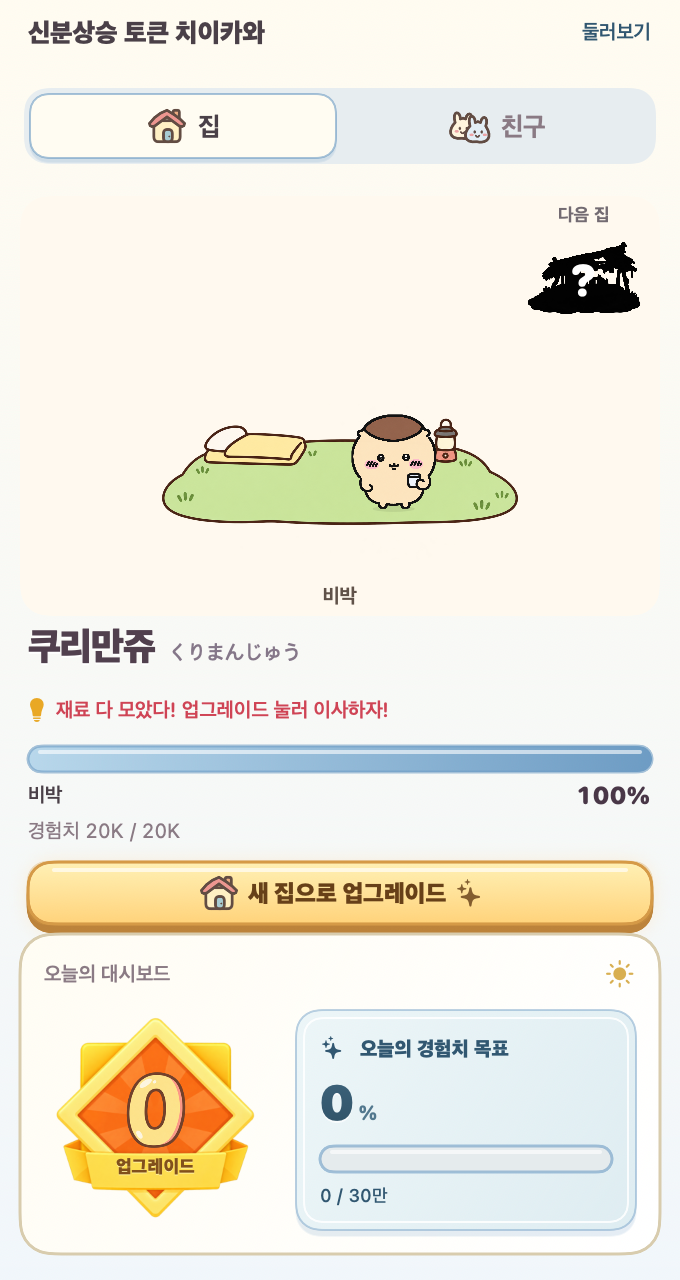
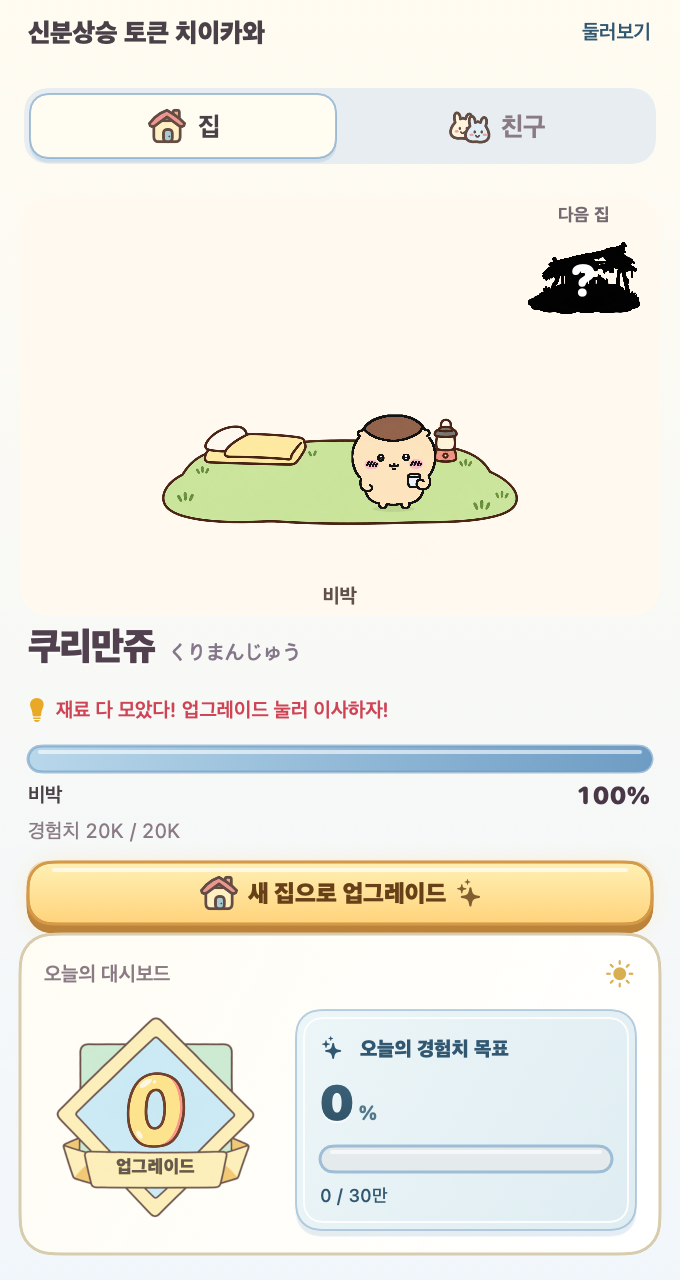
Soften upgrade badge with pastel colors and hand-drawn outlines

Changed region(s): [[0.0926, 0.7812, 0.3706, 0.9688]]

diff --git a/Sources/ChiiBar/UpgradeBadge.swift b/Sources/ChiiBar/UpgradeBadge.swift
@@ -1,13 +1,13 @@
 import AppKit
 import SwiftUI
 
-/// A gold reward medal, with illustrated counts and a readable ribbon label.
+/// A hand-drawn pastel reward badge, with illustrated counts and a readable ribbon label.
 struct UpgradeBadge: View {
     let count: Int
     private static let artwork: NSImage? = {
         let root = ProcessInfo.processInfo.environment["CHIIBAR_NUMBERS"].map { URL(fileURLWithPath: $0) }
             ?? (Bundle.main.resourceURL ?? Bundle.main.bundleURL).appendingPathComponent("StampNumbers")
-        return NSImage(contentsOf: root.appendingPathComponent("badge-gold.png"))
+        return NSImage(contentsOf: root.appendingPathComponent("badge-pastel.png"))
     }()
 
     var body: some View {
@@ -24,7 +24,7 @@ struct UpgradeBadge: View {
             Text("업그레이드")
                 .font(.custom("AppleSDGothicNeo-Heavy", size: 9))
                 .tracking(0.15)
-                .foregroundStyle(Ink.rgb(0x81501B))
+                .foregroundStyle(Ink.rgb(0x66594E))
                 .shadow(color: Ink.rgb(0xFFF2A0), radius: 0, y: 0.5)
                 .offset(y: 24)
         }

diff --git a/Art/StampNumbers/README.md b/Art/StampNumbers/README.md
@@ -12,3 +12,7 @@ Production numeral PNGs for the daily upgrade stamp, created with the built-in i
 ## 금빛 업그레이드 배지 (0.4.12)
 
 `badge-gold.png`는 사용자가 제공한 금빛 다이아몬드·리본 배지를 참고해 내장 이미지 생성 도구로 새로 제작한 투명 배경 이미지입니다. 중앙 숫자는 기존 개별 숫자 이미지를 겹치고 리본의 ‘업그레이드’는 앱에서 표시합니다. 원본은 수정하지 않고 보관합니다. 제작 요청은 `badge-prompt.txt`에 기록했습니다.
+
+## 손그림 파스텔 배지 (0.4.13)
+
+`badge-pastel.png`는 사용자가 제공한 치이카와 그림의 선과 명도·배색을 참고해 내장 이미지 생성 도구로 제작한 배지입니다. 강한 금속 광택과 주황색을 크림색 테두리·하늘색 중심·민트색 뒷판과 갈색 선으로 바꿨습니다. 중앙 숫자와 리본 배치는 유지했습니다. 요청은 `badge-pastel-prompt.txt`에 기록했습니다.
